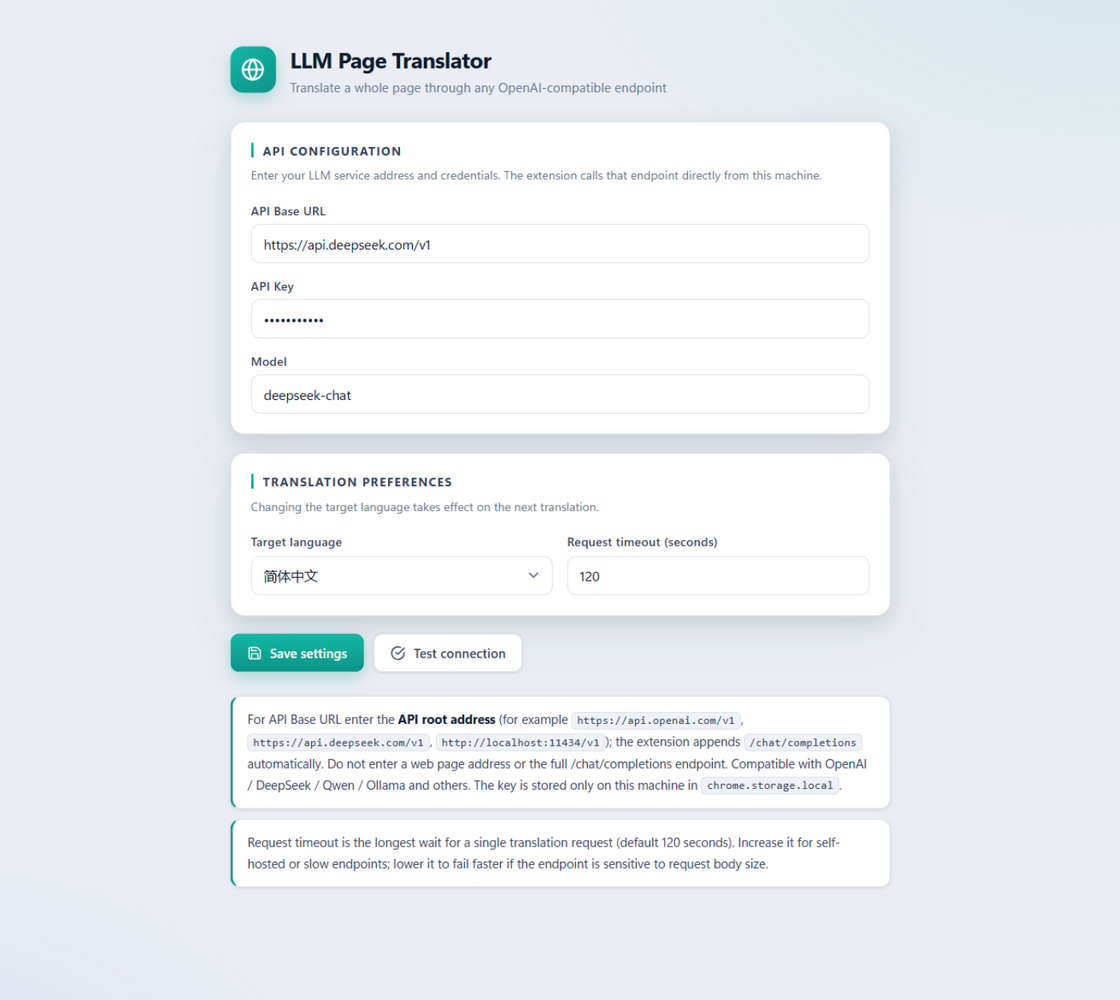
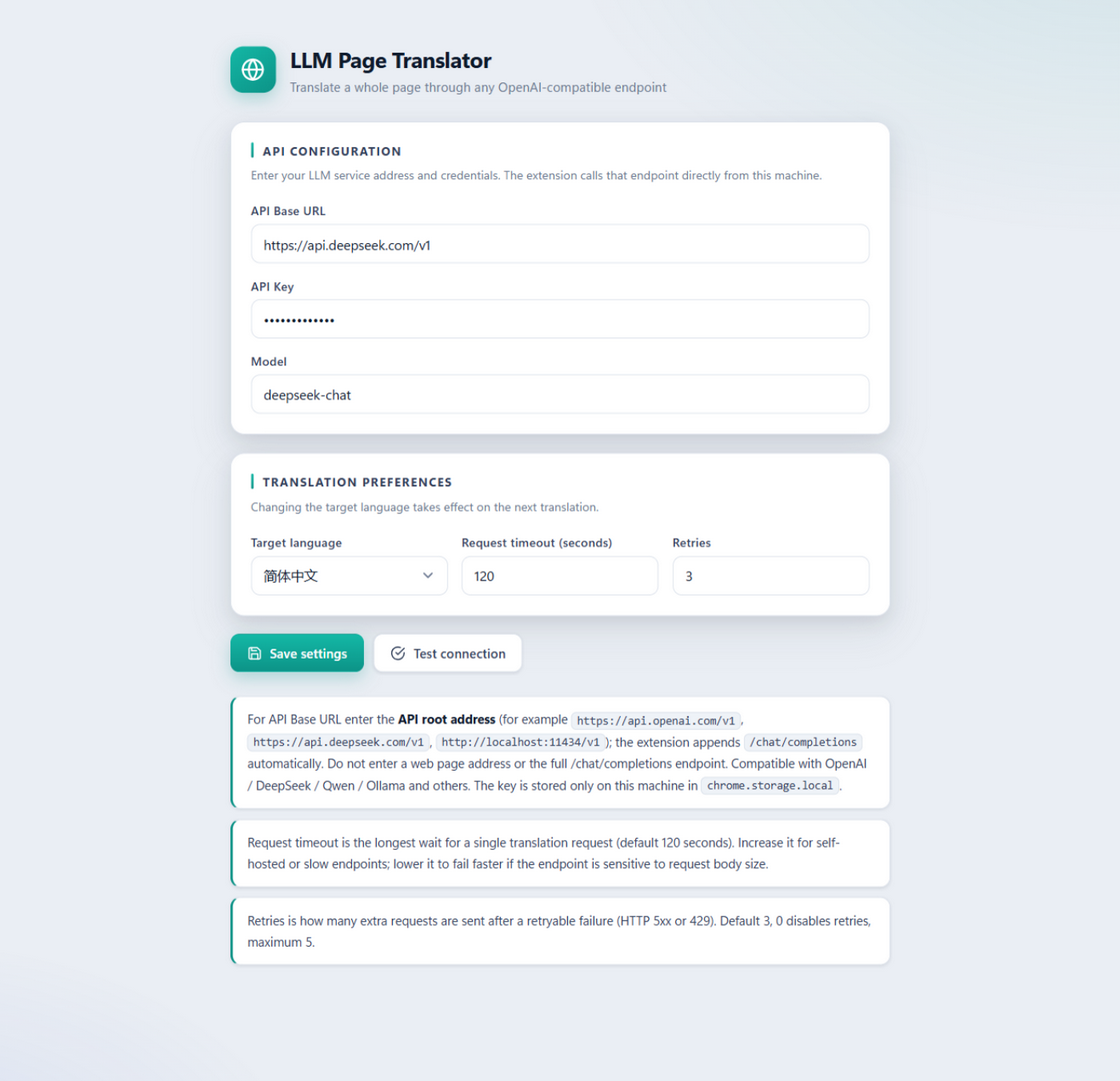
docs(options): refresh settings screenshot, lay preferences out in 3 columns
- the screenshot predates the Retries field; recapture at the same width
  with the new field and its hint visible
- a third preference field left the 2-column grid half empty, so the
  three short fields now share one row and stack under 560px

Changed region(s): [[0.1875, 0.031, 0.8125, 0.899]]

diff --git a/src/options/options.html b/src/options/options.html
@@ -49,7 +49,7 @@
           <h2 data-i18n="options_section_prefs"></h2>
           <p data-i18n="options_section_prefs_desc"></p>
         </div>
-        <div class="grid grid-2">
+        <div class="grid grid-3">
           <label class="field">
             <span class="field-label" data-i18n="options_field_target_language"></span>
             <select name="targetLang"></select>

diff --git a/src/options/options.css b/src/options/options.css
@@ -53,7 +53,10 @@ body {
 
 .grid { display: grid; gap: 14px; }
 .grid-2 { grid-template-columns: 1fr 1fr; }
-@media (max-width: 560px) { .grid-2 { grid-template-columns: 1fr; } }
+.grid-3 { grid-template-columns: repeat(3, 1fr); }
+@media (max-width: 560px) {
+  .grid-2, .grid-3 { grid-template-columns: 1fr; }
+}
 
 .actions {
   display: flex;
